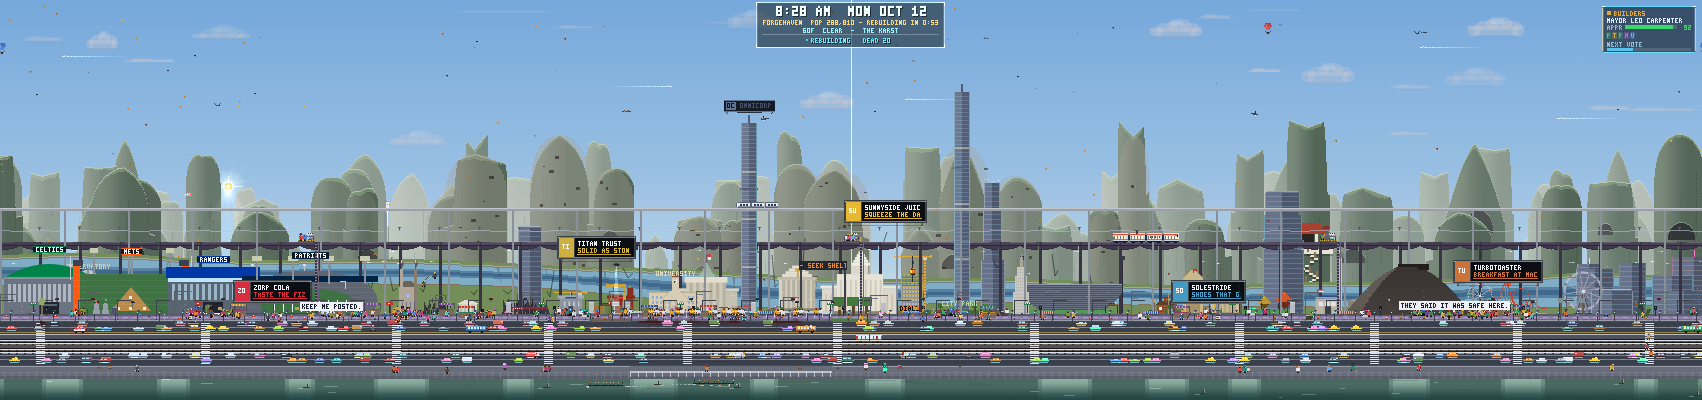
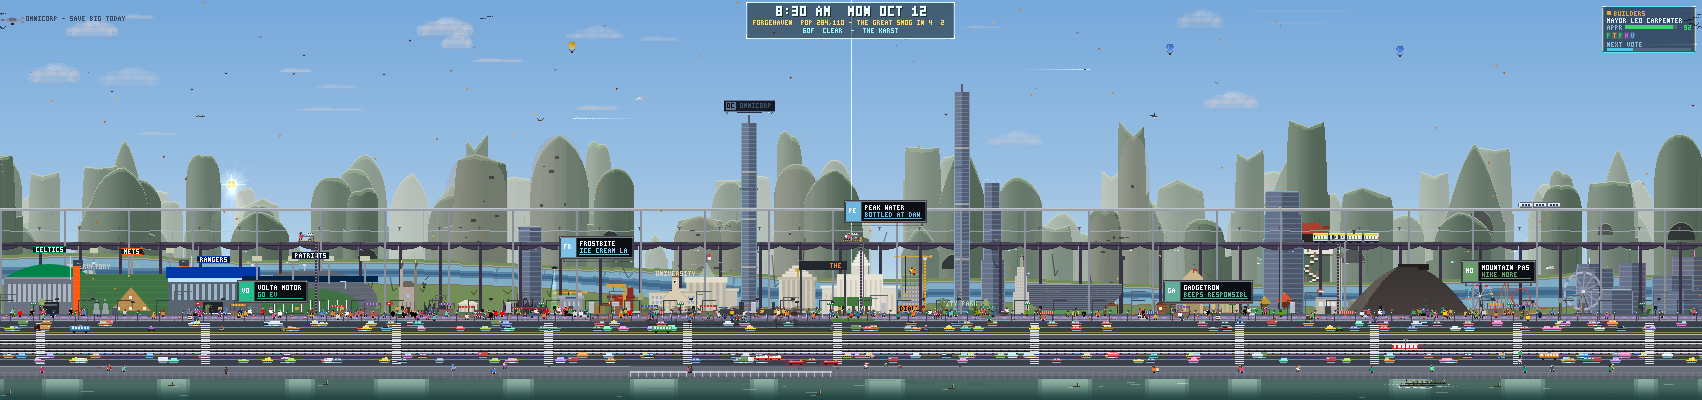
RELEASE: v4.1.2 — the year gets its middles. Version 4.1.1 → 4.1.2 in BOTH desktop/package.json and org.citylive.wallpaper/metadata.json (the updater reads the latter — omitting metadata.json broke updates for three months once), engine VERSION constant to match, payload in docs/RELEASE-v4.1.2.md, p

diff --git a/docs/RELEASE-v4.1.2.md b/docs/RELEASE-v4.1.2.md
@@ -1,0 +1,58 @@
+# v4.1.2 — THE YEAR GETS ITS MIDDLES
+
+**Feature release.** Nick, 2026-10-12: "between the seasons of Spring and Winter, each map should
+transition from fully green to the colors of fall, to then everything is dead. Perhaps every map
+needs some trees (if it applies) so we can have that effect on every map."
+
+## What the engine had
+
+`seasonInfo` ran four hard month flips for the project's whole life: a canopy fully green on
+Aug 31, fully gold on Sep 1, still gold on Nov 30, bare on Dec 1. Four palettes, zero travel —
+nobody ever watched a tree change. The four anchor palettes were themselves good (and stay
+byte-exact — nobody's shipped look moves); it was the middle of the year that was missing.
+
+## What changed
+
+1. **The year is continuous.** `seasonInfo` keeps `{name, canopy, bare, blossom}` and every calendar
+   flag boundary exactly (festivals, seed heads, field palettes, a dozen gates hang off those and
+   shifting them moves four of them), but adds day-of-year ramps, smoothstepped, one window table:
+   `greenT` (Mar 18 → Apr 18: dead grey → spring green), `deepenT` (Apr 25 → May 20: spring
+   green → deep summer green), `fallT` (Aug 10 → Oct 5: green → gold — "the colors of fall" as a
+   six-week burn), `bareT` (Nov 10 → Nov 30: gold → dead brown AND the leaf-drop wave), `blossomT`
+   (Mar 22 → Apr 6 in, gone by May 12). All mixing happens once per frame in `seasonInfo`; the
+   draw calls never mix. First cut mixed whole 3×3 palette MATRICES with `mixc` and painted every
+   canopy black — the lesson is written beside the fix.
+2. **The leaf-drop is a wave.** `drawTree`'s generic woods now shed tree by tree through bareT —
+   a hash of each tree's seed, so the same tree always drops the same day on all three monitors.
+   The bare-branch path is today's winter path, untouched; at Dec 1 the flag takes whatever the
+   wave hasn't got. The stagger lives in drawTree ONLY — `season_bare_ok` (the saguaro/gorse bloom
+   gate) never sees it, or saguaros bloom in November. Blossom sprinkles scale by blossomT: petals
+   arrive as a wave, never at the Mar 1 flag flip.
+3. **The deciduous follows.** In `drawBiomePlant`: the LARCH follows the ramp and (bug of its own)
+   now actually drops in winter — the old switch (`||bare`) had kept it gold through December; the
+   CYPRESS goes bald-wildfire rust through the fall, which is what real bald cypresses do; the
+   COTTONWOOD's crown and the WILLOW's weeping strands ride the ramp; GRASS greens in spring,
+   greens up summer, goes tan through the fall, dead by winter — on every land that has grass, so
+   even the near-treeless lands (the steppes, the badlands) visibly season.
+4. **The drifts follow.** Falling leaves open with fallT (Aug 10) and ride the drop wave to Dec 1
+   (the old key was `name==="autumn"`: gold leaves on Sept 1 while the canopies were still green);
+   petals move with blossomT, not the Mar 1 flag.
+5. **Coverage.** Audit of all ~30 lands against their `flora.kinds`: every land that can plausibly
+   host seasonal trees already carries at least one canopy-following kind (karst: willow and
+   cottonwood; fjord: the larch; dam: willow; gorge: cottonwood and willow; bayou: cypress and
+   willow; the alpine leaf lands: the larch; the sprawl: street trees; the park: its own). Nothing
+   needed planting; what was needed was making the right kinds respond. **On purpose evergreen:**
+   the savanna's acacias, sea-cliff pines, spruces, palms, saguaros, lichen, fungus — skip-list in
+   `seasons.test.js`.
+6. **Tests.** `seasons.test.js` (4 tests): anchors byte-exact at Jul 15/Oct 15/Jan; the whole year
+   sweeps smooth (≤25 channels day-over-day, month boundaries included) — with the three realms of
+   the vm harness handled: build assertion rows with test-realm literals, sandbox arrays fail
+   deepStrictEqual's prototype check; the drop waves (40 seeds, monotone, partial at Nov 14, total
+   by Dec 5); per-land kind coverage; purity of the model. 248 pass, 1 pre-existing failure
+   (fireflies/leaf, fails identically on the pristine committed engine).
+
+## Not done here (deliberate)
+
+Fields/festivals still key on the month FLAGS — a pop at Mar 1/Sep 1 in the meadow bloom mixes and
+harvest seedheads remains, small and calendar-like (festivals). If Nick wants those ramped too,
+it's the same table.

diff --git a/docs/PLAN-seasons-2026-10-12.md b/docs/PLAN-seasons-2026-10-12.md
@@ -10,5 +10,5 @@ Goal: green → fall gold → dead winter TRANSITION (no hard month flips), visi
 - New test desktop/test/seasons.test.js: 366-day sweep (anchors + smoothness), Nov stagger monotonic on leaf, per-land Oct gold presence, determinism double-render.
 - Release: separate version commit → 4.1.2 (package.json + metadata.json), docs/RELEASE-v4.1.2.md.
 
-PENDING: device-flow GH login (code D992-5291) → push main+tags (commits ad1257c, c6f3923 + tag v4.1.1).
+DONE: feature committed; v4.1.2 committed; push pending device-flow → push main+tags (commits ad1257c, c6f3923 + tag v4.1.1).
 After push: memory notes [[citylive-mountain-lines]]; Nick's visual verdict on seasons.
